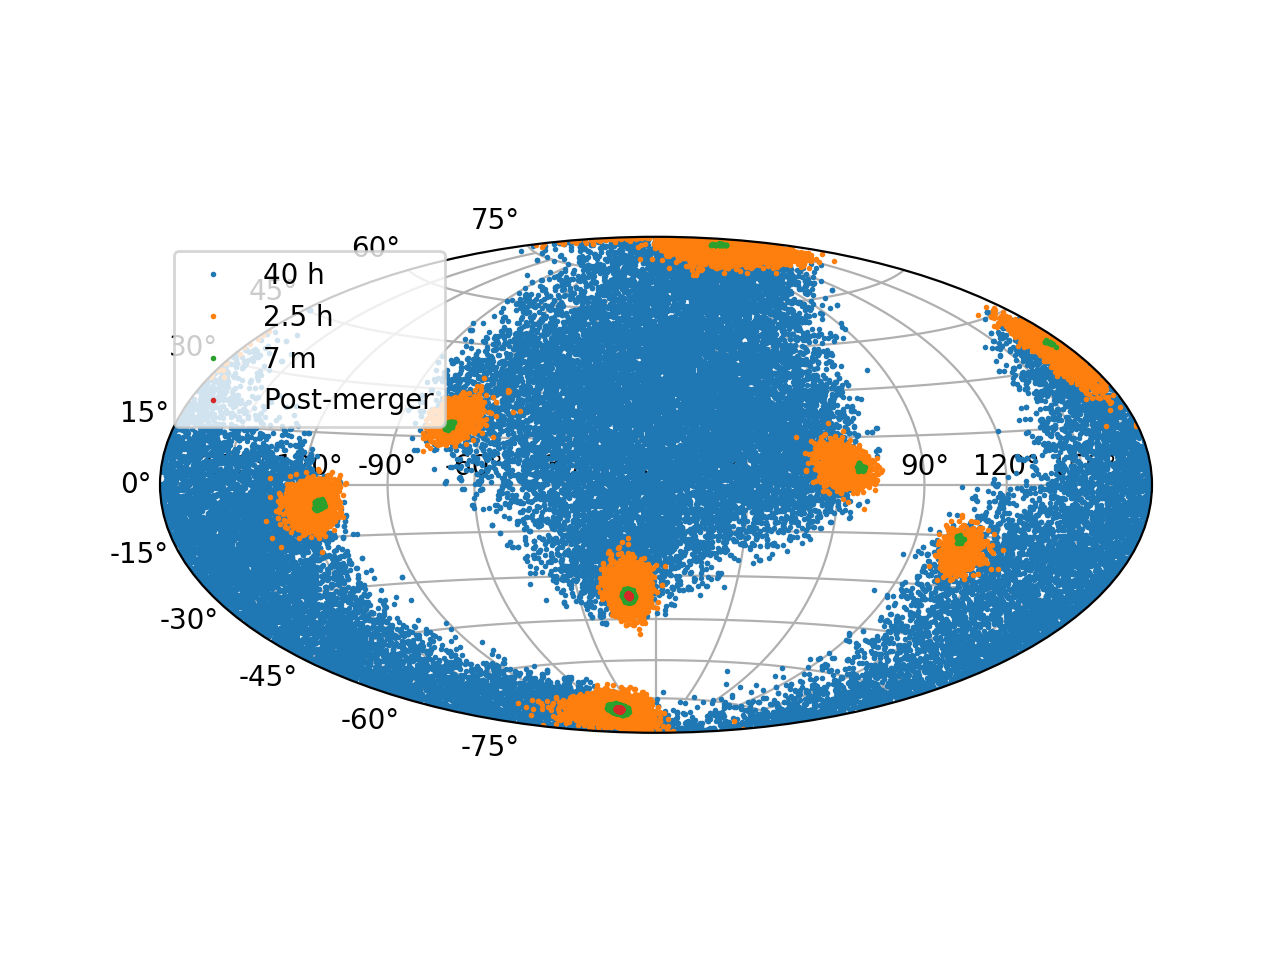
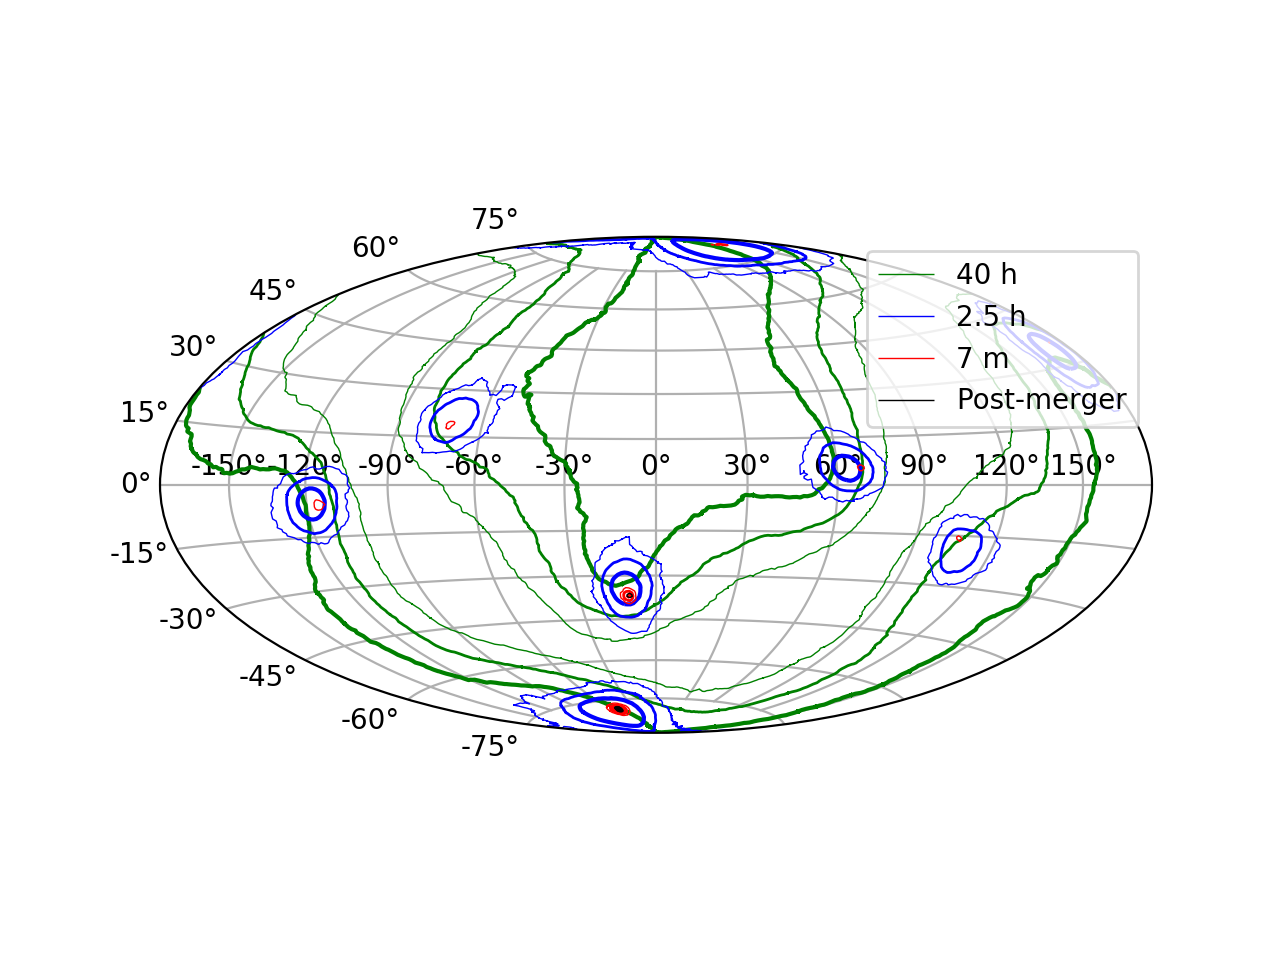
Skymap plot with contours

Changed region(s): [[0.125, 0.25, 0.9062, 0.7812], [0.125, 0.25, 0.1562, 0.2812]]

diff --git a/data/t-series-mcmc-results/skyplot.py b/data/t-series-mcmc-results/skyplot.py
@@ -1,17 +1,39 @@
 import numpy as np
 import pylab as pl
+from sklearn.neighbors.kde import KernelDensity
+
 
 fig = pl.figure()
 ax = fig.add_subplot(1, 1, 1, projection='hammer')
 
 labels = ['40 h', '2.5 h', '7 m', 'Post-merger']
+colors = ['g', 'b', 'r', 'k']
+bandwidths = [0.2, 0.05, 0.01, 0.005]
 
-for i, label in zip([64, 16, 4, 1], labels):
+for i, label, color, bw in zip([64, 16, 4, 1], labels, colors, bandwidths):
+    print(i)
     data = np.loadtxt('STP_09_lm55_t{:02d}_joint_resampled.dat'.format(i))
     ra, dec = data[:,8], data[:,9]
     ra -= np.pi
 
-    ax.plot(ra, dec, 'o', markeredgewidth=0, markersize=2, label=label)
+    # create the KDE estimator
+    # we could use grid-search cross validation to estimate the bandwidth here
+    radec = np.vstack((dec, ra)).T
+    kde = KernelDensity(kernel='tophat', bandwidth=bw, metric='haversine').fit(radec)
+
+    # find the density levels corresponding to 1, 2, 3 sigmas
+    n = 10000
+    sample = kde.sample(n)
+    sample_densities = np.sort(np.exp(kde.score_samples(sample)))
+    levels = [sample_densities[int(n * (1 - p))] for p in [0.9973, 0.9545, 0.6827]]
+
+    gra = np.linspace(-np.pi, np.pi, 300)
+    gdec = np.linspace(-np.pi/2, np.pi/2, 300)
+    ggra, ggdec = np.meshgrid(gra, gdec)
+    d = np.exp(kde.score_samples(np.vstack((ggdec.ravel(), ggra.ravel())).T))
+    d = np.reshape(d, ggra.shape)
+    cs = ax.contour(gra, gdec, d, colors=color, linewidths=[0.5, 1, 1.5], levels=levels)
+    cs.collections[0].set_label(label)
 
 ax.grid()
 ax.legend()
